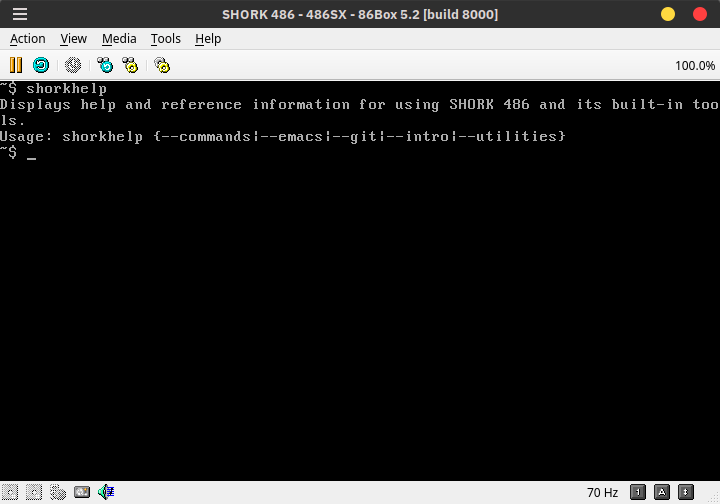
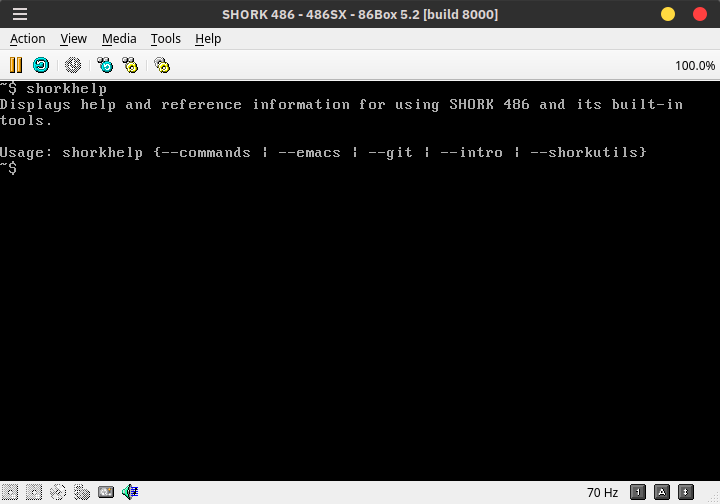
"Beautify" shorkutils
* shorkutils are now terminal width aware so they can properly soft-word-warp without breaking words when outputting text.
* Any instance of shorkutils' outputs being hard-coded to 80 columns has been removed, so they will output more normally on SVGA and XGA resolutions.
* shorkutils' description and usage output text are now separated to help improve legibility.
* BusyBox now includes the fold command.
* shorkhelp's utilities parameter has been removed to shorkutils.
* Updated screeenshots.

diff --git a/README.md b/README.md
@@ -10,7 +10,7 @@ A default SHORK 486 system aims to work with at least 16MiB system memory and ta
 
 ### Core commands (BusyBox, util-linux)
 
-awk, basename, beep, cat, chmod, chown, chroot, clear, cp, crontab, cut, date, dmesg, dirname, find, free, ftpget, ftpput, gzip, halt, head, hostname, ifconfig, kill, less, ln, ls, lsblk, lspci, loadkmap, man, mkdir, mknod, mount, mv, nice, nohup, nproc, paste, pkill, ping, printf, pwd, readlink, rm, rmdir, route, sed, seq, showkey, sleep, stat, stty, sync, tar, tee, test, top, touch, tr, udhcpc, umount, uname, whoami, wget, which, xz, zip
+awk, basename, beep, cat, chmod, chown, chroot, clear, cp, crontab, cut, date, dmesg, dirname, find, fold, free, ftpget, ftpput, gzip, halt, head, hostname, ifconfig, kill, less, ln, ls, lsblk, lspci, loadkmap, man, mkdir, mknod, mount, mv, nice, nohup, nproc, paste, pkill, ping, printf, pwd, readlink, rm, rmdir, route, sed, seq, showkey, sleep, stat, stty, sync, tar, tee, test, top, touch, tr, udhcpc, umount, uname, unzip, whoami, wget, which, xz
 
 ### Bundled software
 
@@ -30,7 +30,7 @@ awk, basename, beep, cat, chmod, chown, chroot, clear, cp, crontab, cut, date, d
     * `--emacs`: Shows an Emacs (Mg) cheatsheet.
     * `--git`: Shows a list of supported Git commands.
     * `--intro`: Shows an introductory paragraph for SHORK 486 and a simple getting started guide.
-    * `--utilities`: Shows a list of SHORK 486 utilities with a brief explanation of what they do.
+    * `--shorkutils`: Shows a list of SHORK 486 utilities with a brief explanation of what they do.
 * **shorkmap** - Persistently changes the system's keyboard layout (keymap). Takes one argument (a keymap name); running it without an argument shows a list of possible keymaps.
 * **shorkoff** - Brings the system to a halt and syncs the write cache, allowing the computer to be safely turned off. Similar to `poweroff` or `shutdown -h`. Takes no arguments.
 * **shorkres** - Persistently changes the system's display resolution (provided the hardware is compatible). Takes one argument (a resolution name); running it without an argument shows a list of possible resolution names.
